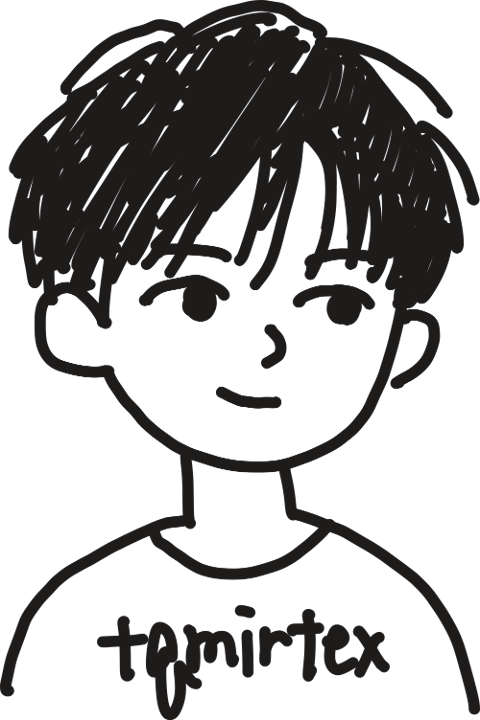
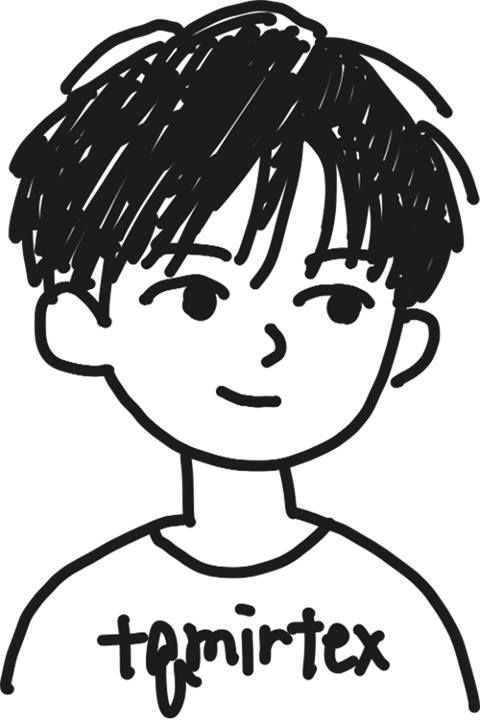
アバターアイコン周りのデザイン調整

diff --git a/assets/css/style.css b/assets/css/style.css
@@ -1370,9 +1370,10 @@ main { position: relative; }
 
 .hero__avatar {
   position: absolute;
-  top: 0;
+  top: 50%;
   right: var(--s-lg, 24px);
-  width: 340px;
+  transform: translateY(-50%);
+  width: 240px;
   height: auto;
   pointer-events: none;
 }
@@ -1380,7 +1381,8 @@ main { position: relative; }
 @media (max-width: 1311px) {
   .hero__avatar { display: none; }
   .hero__title { text-align: center; }
-  .profile { margin-left: auto; margin-right: auto; }
+  .profile { margin-left: auto; margin-right: auto; max-width: 400px; }
+  .profile__row { grid-template-columns: 110px 1fr; }
   .hero .social { justify-content: center; }
 }
 
@@ -1852,6 +1854,7 @@ main { position: relative; }
   :root { --s-section: 72px; }
   .container { padding: 0 var(--s-base); }
   .hero { padding-top: 72px; }
+  .hero__inner { padding: 0 40px; }
   .profile { margin-top: var(--s-xxl); }
   .profile__row { grid-template-columns: 1fr; gap: 4px; }
   .card-grid { grid-template-columns: 1fr; }
